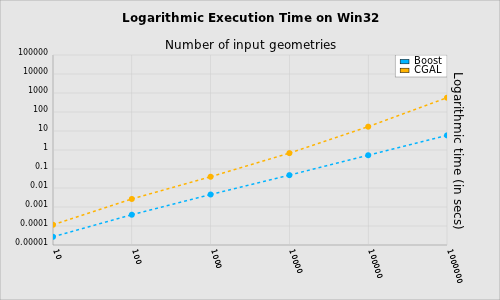
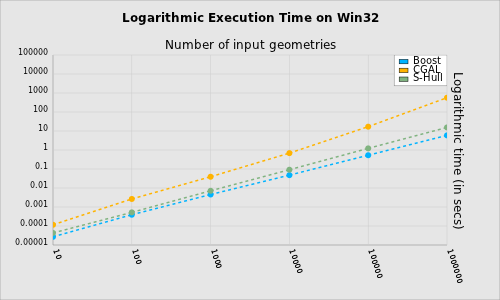
Updating documentation.

diff --git a/sandbox/gtl/doc/voronoi_benchmark.htm b/sandbox/gtl/doc/voronoi_benchmark.htm
@@ -4,6 +4,7 @@
 
 
 
+
   
   <meta http-equiv="Content-Language" content="en-us">
 
@@ -13,7 +14,7 @@
 
   <tbody>
     <tr>
-      <td style="background-color: rgb(238, 238, 238);" nowrap="1" valign="top">
+      <td style="background-color: rgb(238, 238, 238);" valign="top" nowrap="1">
       <div style="padding: 5px;" align="center"> <img src="images/boost.png" border="0" height="86" width="277"><a title="www.boost.org home page" tabindex="2" style="border: medium none ;" href="http://www.boost.org/"> </a></div>
       <div style="margin: 5px;">
       <h3 class="navbar">Contents</h3>
@@ -79,29 +80,30 @@ Tutorial</a></li>
       <td style="padding-left: 10px; padding-right: 10px; padding-bottom: 10px;" valign="top" width="100%"><!-- End Header --> <br>
       
       <h1>Voronoi Benchmark</h1>
-There are not many known Voronoi libraries that are capable to satisfy
+There are not many known Voronoi libraries that are capable to satisfy the
 following set of conditions:<br>
       <ul>
-        <li>could handle both point and segment input geometries;</li>
+        <li>could handle input data sets of points and segments<br>
+</li>
         <li>give exact warranties about the algorithm robustness and
-output topology;<br>
+output topology<br>
         </li>
-        <li>compute output geometries within precision of the output
-coordinate type.</li>
+        <li>compute coordinates of the output geometries within the fixed relative precision<br>
+</li>
       </ul>Below is the list of libraries included in this benchmark sorted by the number of conditions each of them satisfies:<br>
       <ul>
-        <li>Boost.Polygon Voronoi - satisfies all three items above.<br>
+        <li>Boost.Polygon Voronoi - satisfies all three items above, implements sweep-line algorithm.<br>
         </li>
-        <li>CGAL - satisifes the first two items. CGAL is a well-known
+        <li>CGAL - satisfies the first two items, implements incremental algorithm. CGAL is a well-known
 library in the computational geometry area, especially for its
-robustness.</li>
+robustness.<br>
+</li>
         <li>S-Hull
 - doesn't satisfy any of the above items. S-Hull is a non-robust
-implementation of sweep-hull algorithm that constructs Delaunay
+implementation of the sweep-hull algorithm used to construct Delaunay
 triangulation of a set of points.<br>
         </li>
-      </ul>
-There are only two robust imlementations in our benchmark:
+      </ul>At the moment this benchmark includes only two robust implementations:
 Boost.Polygon Voronoi and CGAL. Thus we are considering comparison of
 those two to be of the most interest. <br>
       <br>
@@ -112,43 +114,42 @@ incrementally (we are open for suggestions).<br>
 the Boost.Polygon Voronoi over the CGAL Delaunay Graph implementation,
 we would like to make it clear
 that both libraries use different approach to construct Voronoi
-diagram. Thus there are problems were CGAL incremental approach would
-be still more vital than sweepline approach (e.g. input sites are
+diagram. Thus there are problems where the CGAL's incremental approach would
+be still more vital than the sweep-line algorithm (e.g. input sites are
 inserted as a live stream
 data).<br>
       <h2>Voronoi Benchmark Details<br>
       </h2>
-The benchmark consists of the two parts. The first one constructs the
-Voronoi diagram of a set of random points (<a href="../libs/polygon/benchmark/voronoi_benchmark_points.cpp"><span style="text-decoration: underline;">voronoi_benchmark_points.cpp</span></a>),
-the second one constructs the Voronoi diagram of a set of random
-segments (<a href="../libs/polygon/benchmark/voronoi_benchmark_segments.cpp">voronoi_benchmark_segments.cpp</a>).
-Below we list important details about the benchmark, Boost and CGAL
-implementation that should be considered while reviewing benchmark
-results:<br>
+The benchmark consists of the two parts:<br>
       <ul>
-        <li>We ensure that input data sets are the same for both
-libraries by initializing random generator with the same seed;</li>
+        <li>The first one constructs the Voronoi diagram of a set of random points (<a href="../libs/polygon/benchmark/voronoi_benchmark_points.cpp"><span style="text-decoration: underline;">voronoi_benchmark_points.cpp</span></a>)</li>
+        <li>The second one constructs the Voronoi diagram of a set of random
+segments (<a href="../libs/polygon/benchmark/voronoi_benchmark_segments.cpp">voronoi_benchmark_segments.cpp</a>)</li>
+      </ul>
+Below we list important benchmark details that should be considered while reviewing its results:<br>
+      <ul>
+        <li>We ensure that input data sets are the same for all
+libraries by initializing random generator with the same seed</li>
         <li>We ensure that input data sets that consist of segments
-don't contain intersections using Boost.Polygon functionality;<br>
+don't contain intersections using Boost.Polygon functionality</li>
+        <li>S-Hull's implementation doesn't process duplicate points
+properly, thus those are eliminated before the algorithm execution
+explicitly (Boost.Polygon Voronoi and CGAL do that&nbsp; implicitly) <br>
         </li>
-        <li>There is no Voronoi diagram data structure in CGAL at the
-moment. That's why we use Segment Delaunay Graph which is topologically
-dual to Voronoi diagram;</li>
-        <li>CGAL
-output Delaunay graph doesn't contain information
-about coordinates of the Voronoi vertices, basically it stores just
-topology. We didn't include time to compute Voronoi vertices and memory
-storage required for those in our benchmarks. Thus one may expect
-Boost.Polygon Voronoi to be even more faster in comparison with CGAL.<br>
+
+        <li>There is no Voronoi diagram data structure in CGAL/S-Hull. That's why we use the segment Delaunay graph which is topologically
+dual to the Voronoi diagram</li>
+        <li>CGAL's and S-Hull's output Delaunay triangulation doesn't contain information
+about coordinates of the Voronoi vertices. We didn't include time to compute Voronoi vertices and memory
+storage required for those in this benchmark.<br>
         </li>
-        <li>The Boost and CGAL implementation process each input
+        <li>Both Boost.Polygon Voronoi and CGAL process each input
 segment
 as 3 input objects (segment itself and its endpoints), thus the running
-time and memory usage for Voronoi of segments would be approximately at
+time and memory usage for Voronoi of segments would be at
 least 3 times
-slower than for Voronoi of points;</li>
-        <li>The S-Hull implementation doesn't process duplicate points properly, thus those are eliminated before the algorithm execution.<br>
-        </li>
+slower than for Voronoi of points</li>
+        
 
       </ul>
       
@@ -480,8 +481,8 @@ the Boost.Polygon Voronoi is faster than non-robust of
 S-Hull (except small input sets of around 100 points on Linux-64).<br>
         </li>
 
-        <li>Logarithmic execution time shows that Boost.Polygon Voronoi
-has clear N*log(N) complexity, while this doesn't seem to be true for
+        <li>Logarithmic execution time shows that Boost.Polygon Voronoi and S-Hull
+have clear N*log(N) complexity, while this doesn't seem to be true for
 CGAL (at least for large input data sets).<br>
         </li>
         <li>Boost.Polygon Voronoi computes coordinates of the output
@@ -502,7 +503,7 @@ for those quantities.</li>
       </td>
     </tr>
     <tr>
-      <td style="background-color: rgb(238, 238, 238);" nowrap="1" valign="top">&nbsp;</td>
+      <td style="background-color: rgb(238, 238, 238);" valign="top" nowrap="1">&nbsp;</td>
       <td style="padding-left: 10px; padding-right: 10px; padding-bottom: 10px;" valign="top" width="100%">
       <table class="docinfo" id="table2" frame="void" rules="none">
         <colgroup> <col class="docinfo-name"><col class="docinfo-content"> </colgroup> <tbody valign="top">

diff --git a/sandbox/gtl/libs/polygon/benchmark/voronoi_benchmark_points.cpp b/sandbox/gtl/libs/polygon/benchmark/voronoi_benchmark_points.cpp
@@ -18,26 +18,26 @@
 
 typedef boost::int32_t int32;
 
-// Include for Boost.Polygon Voronoi library.
+// Include for the Boost.Polygon Voronoi library.
 #include <boost/polygon/voronoi.hpp>
 typedef boost::polygon::default_voronoi_builder VB_BOOST;
 typedef boost::polygon::voronoi_diagram<double> VD_BOOST;
 
-// Includes for CGAL library.
-# include <CGAL/Quotient.h>
-# include <CGAL/MP_Float.h>
-typedef CGAL::Quotient<CGAL::MP_Float> ENT;
+// Includes for the CGAL library.
+#include <CGAL/Quotient.h>
+#include <CGAL/MP_Float.h>
 #include <CGAL/Simple_cartesian.h>
-typedef CGAL::Simple_cartesian<double> CK;
-typedef CGAL::Simple_cartesian<ENT> EK;
 #include <CGAL/Segment_Delaunay_graph_filtered_traits_2.h>
 #include <CGAL/Segment_Delaunay_graph_2.h>
+typedef CGAL::Quotient<CGAL::MP_Float> ENT;
+typedef CGAL::Simple_cartesian<double> CK;
+typedef CGAL::Simple_cartesian<ENT> EK;
 typedef CGAL::Segment_Delaunay_graph_filtered_traits_2<
     CK, CGAL::Field_with_sqrt_tag, EK, CGAL::Field_tag> Gt;
 typedef CGAL::Segment_Delaunay_graph_2<Gt> SDT_CGAL;
 typedef SDT_CGAL::Point_2 Point_CGAL;
 
-// Includes for S-Hull library.
+// Includes for the S-Hull library.
 #include <s_hull.h>
 
 const int RANDOM_SEED = 27;
@@ -94,7 +94,7 @@ void run_shull_test() {
   boost::mt19937 gen(RANDOM_SEED);
   bf << "S-Hull Triangulation of Points:\n";
   // This value is required by S-Hull as it doesn't seem to support properly
-  // coordinates with absolute value higher than 100.
+  // coordinates with the absolute value higher than 100.
   float koef = 100.0 / (1 << 16) / (1 << 15);
   for (int i = 0; i < NUM_TESTS; ++i) {
     timer.restart();
@@ -110,7 +110,7 @@ void run_shull_test() {
         int32 y = static_cast<int32>(gen());
         upts.push_back(std::make_pair(x, y));
       }
-      // Absolutely the same code is used by the Boost.Polygon Voronoi.
+      // Absolutely the same code is used by the Boost.Polygon Voronoi library.
       std::sort(upts.begin(), upts.end());
       upts.erase(std::unique(upts.begin(), upts.end()), upts.end());
       

diff --git a/sandbox/gtl/libs/polygon/benchmark/voronoi_benchmark_segments.cpp b/sandbox/gtl/libs/polygon/benchmark/voronoi_benchmark_segments.cpp
@@ -18,26 +18,26 @@
 
 typedef boost::int32_t int32;
 
-// Include for Boost.Polygon Voronoi library.
+// Include for the Boost.Polygon Voronoi library.
 #include <boost/polygon/voronoi.hpp>
 typedef boost::polygon::voronoi_diagram<double> VD_BOOST;
 
-// Includes for CGAL library.
+// Includes for the CGAL library.
 #include <CGAL/Quotient.h>
 #include <CGAL/MP_Float.h>
-typedef CGAL::Quotient<CGAL::MP_Float> ENT;
 #include <CGAL/Simple_cartesian.h>
-typedef CGAL::Simple_cartesian<double> CK;
-typedef CGAL::Simple_cartesian<ENT> EK;
 #include <CGAL/Segment_Delaunay_graph_filtered_traits_2.h>
 #include <CGAL/Segment_Delaunay_graph_2.h>
+typedef CGAL::Quotient<CGAL::MP_Float> ENT;
+typedef CGAL::Simple_cartesian<double> CK;
+typedef CGAL::Simple_cartesian<ENT> EK;
 typedef CGAL::Segment_Delaunay_graph_filtered_traits_2<
     CK, CGAL::Field_with_sqrt_tag, EK, CGAL::Field_tag> Gt;
 typedef CGAL::Segment_Delaunay_graph_2<Gt> SDT_CGAL;
 typedef SDT_CGAL::Point_2 Point_CGAL;
 typedef SDT_CGAL::Site_2 Site_CGAL;
 
-// Include Boost.Polygon library.
+// Include for the Boost.Polygon library.
 #include <boost/polygon/polygon.hpp>
 typedef boost::polygon::point_data<int32> POINT_POLYGON;
 typedef boost::polygon::directed_line_segment_data<int32> SEGMENT_POLYGON;
